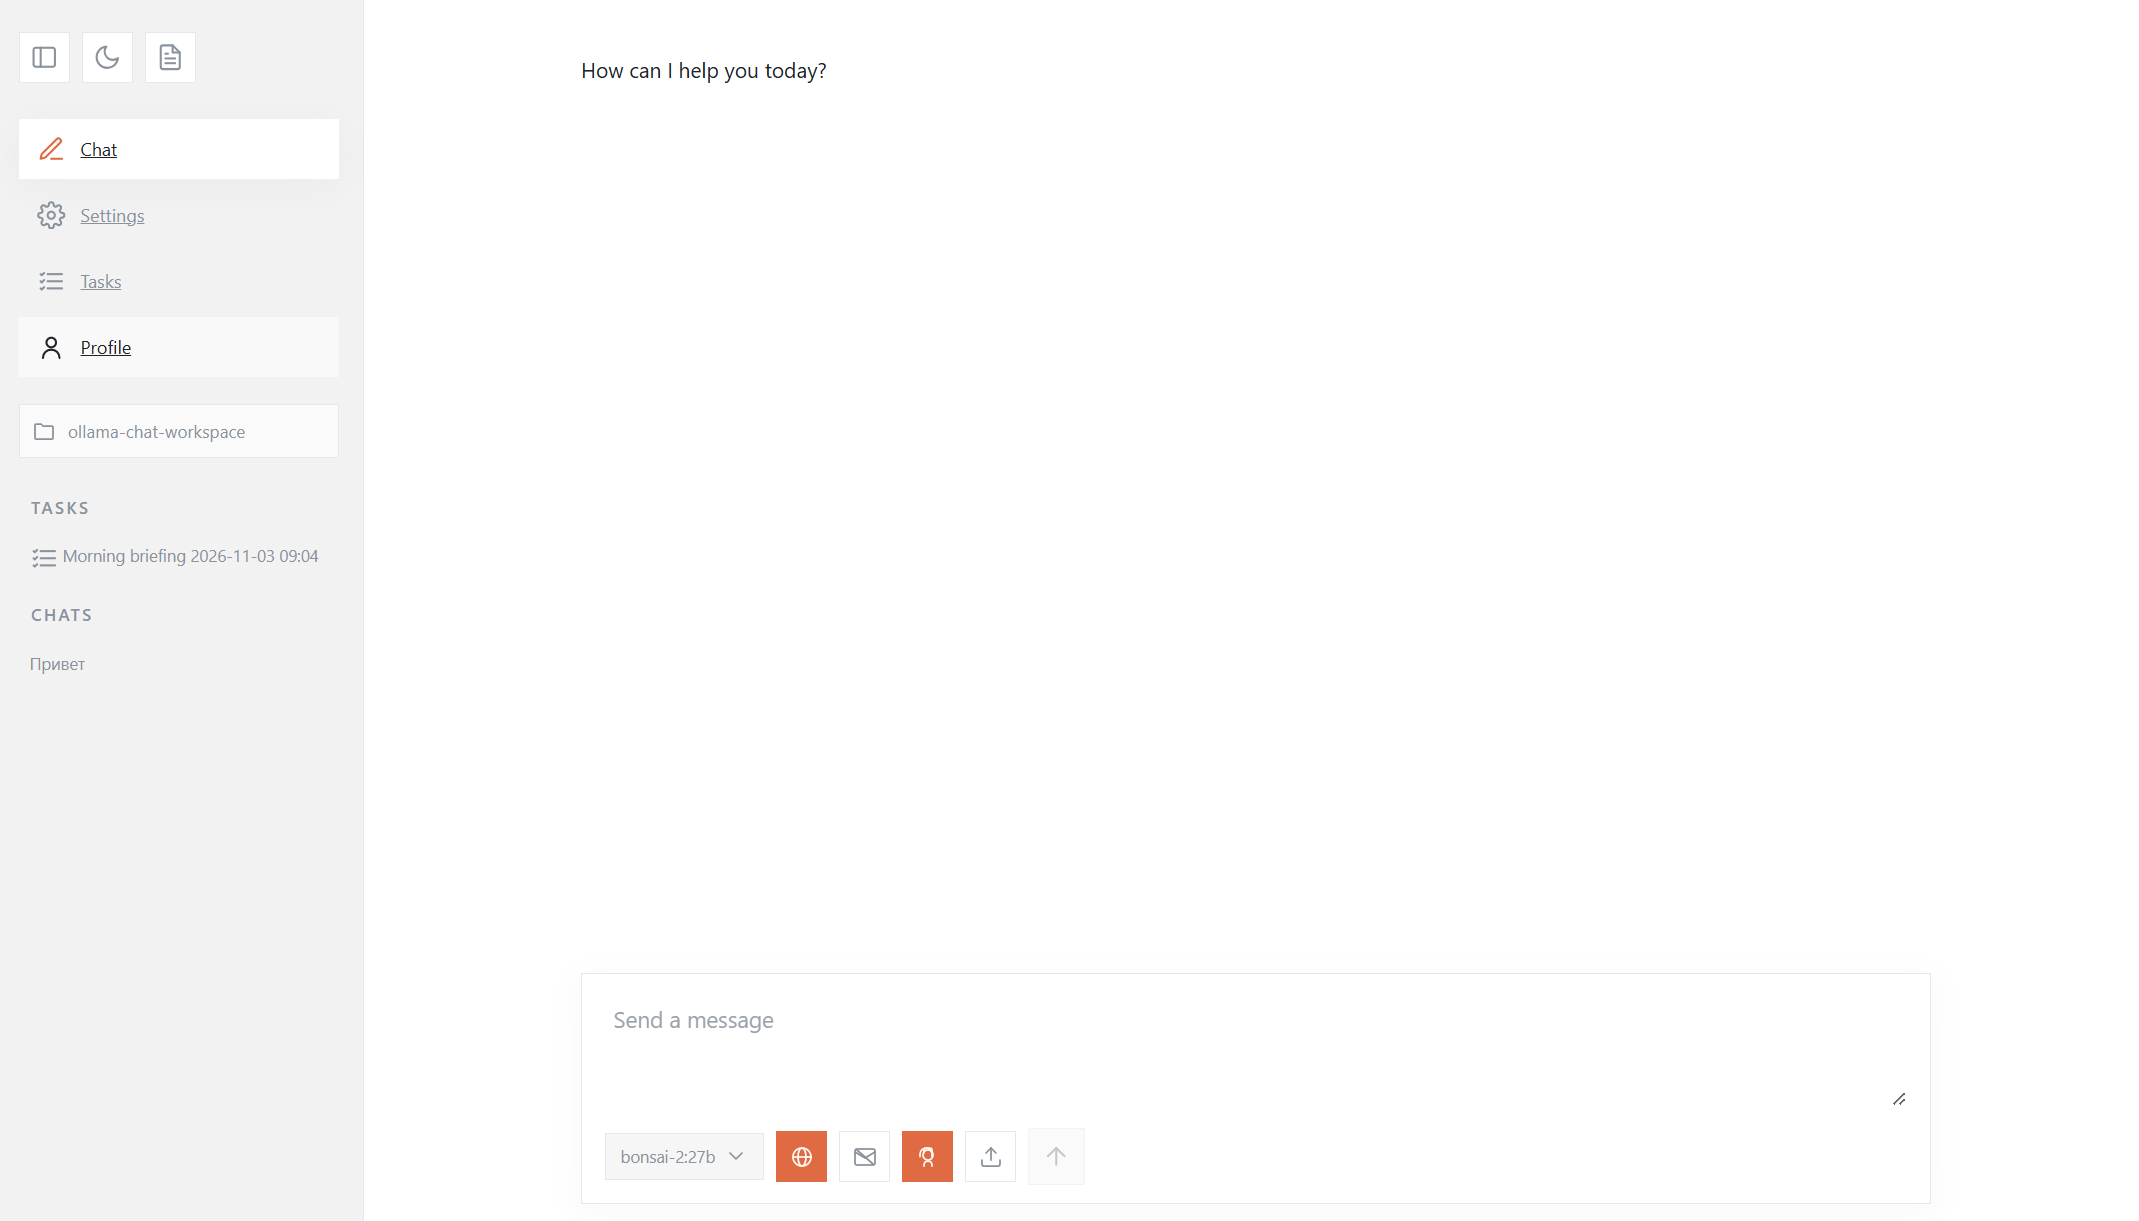
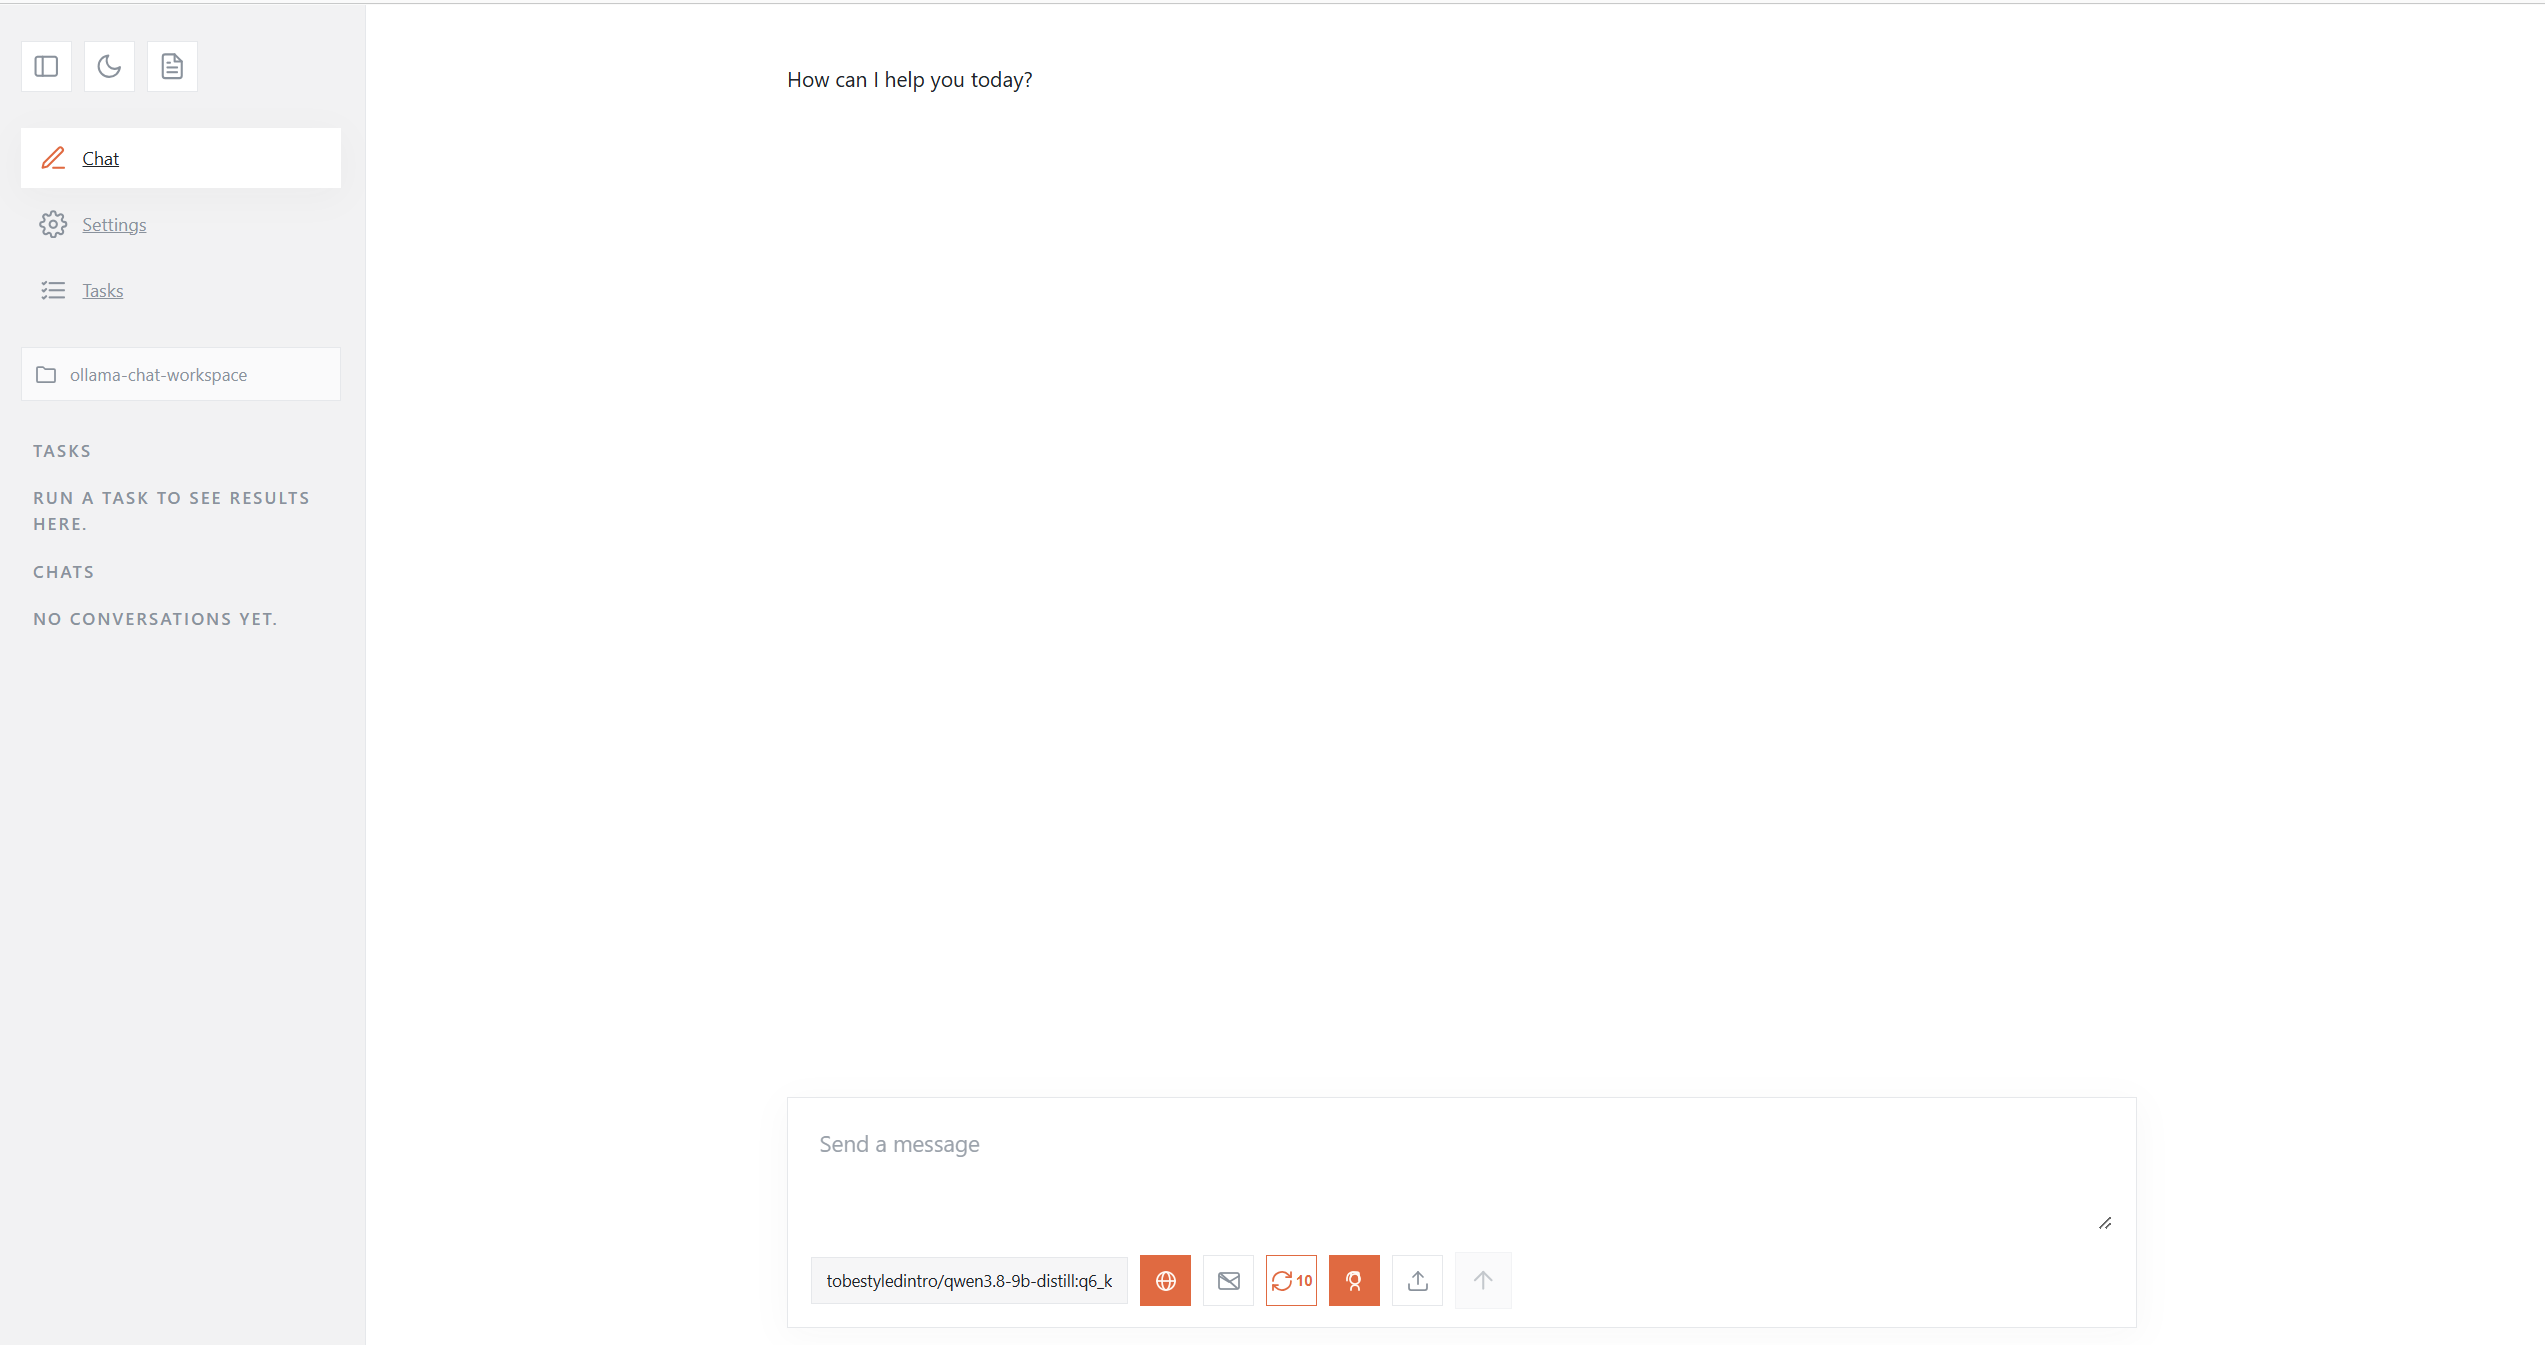
images

diff --git a/README.md b/README.md
@@ -390,3 +390,8 @@ make run ARGS='...'  # start app from default venv
 ```
 
 Upstream: https://github.com/craigahobbs/ollama-chat · Fork: https://github.com/OlegUshakov-pl/ollama-chat
+
+![general](assets/General.png)
+![Settings](assets/Settings.png)
+![ai](assets/AI.png)
+![ai](assets/Tasks.png)
